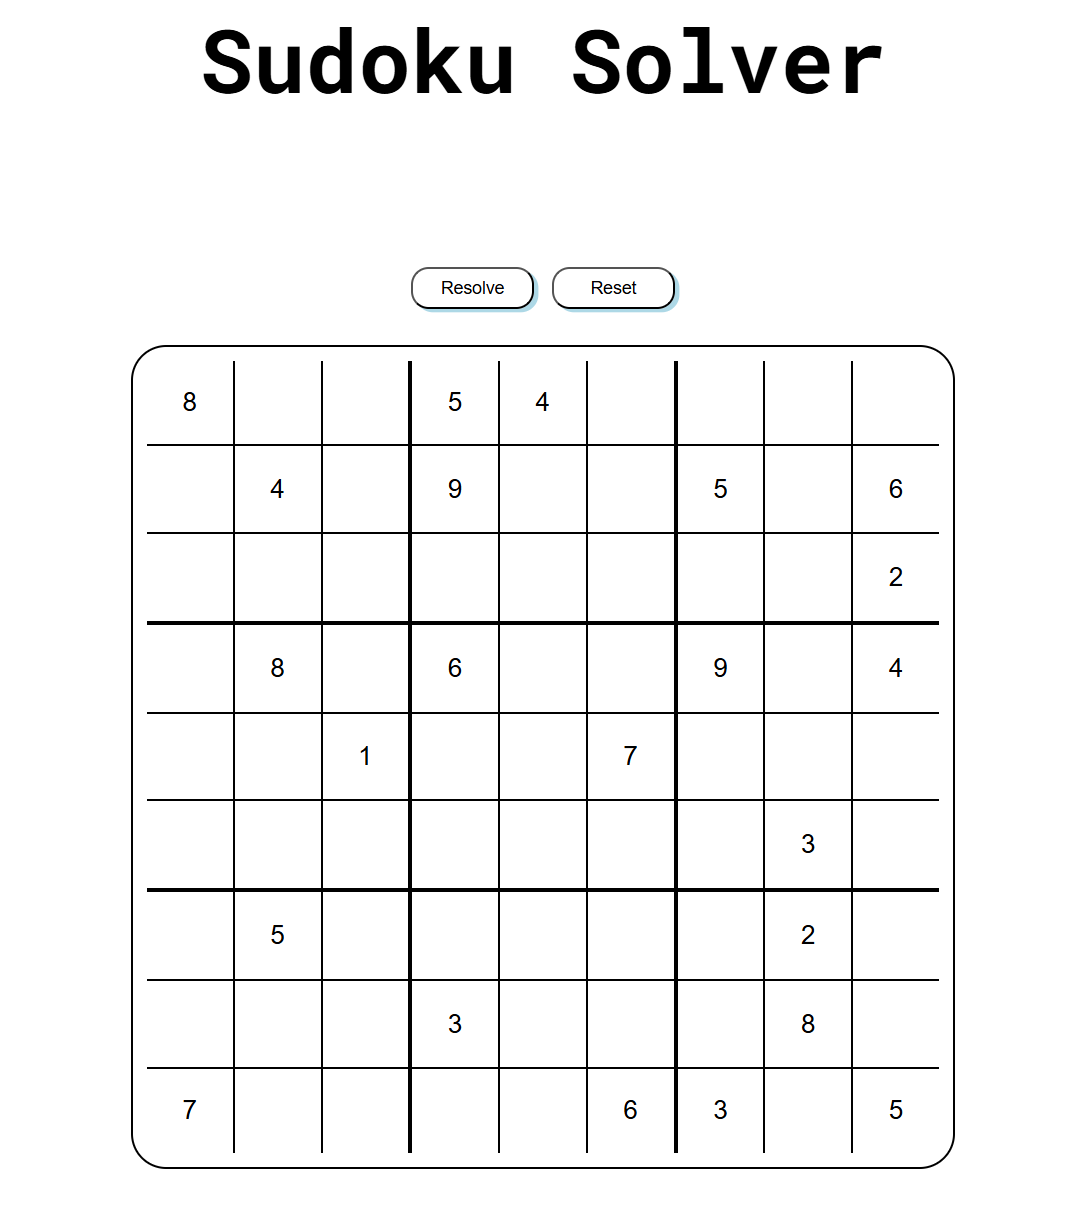
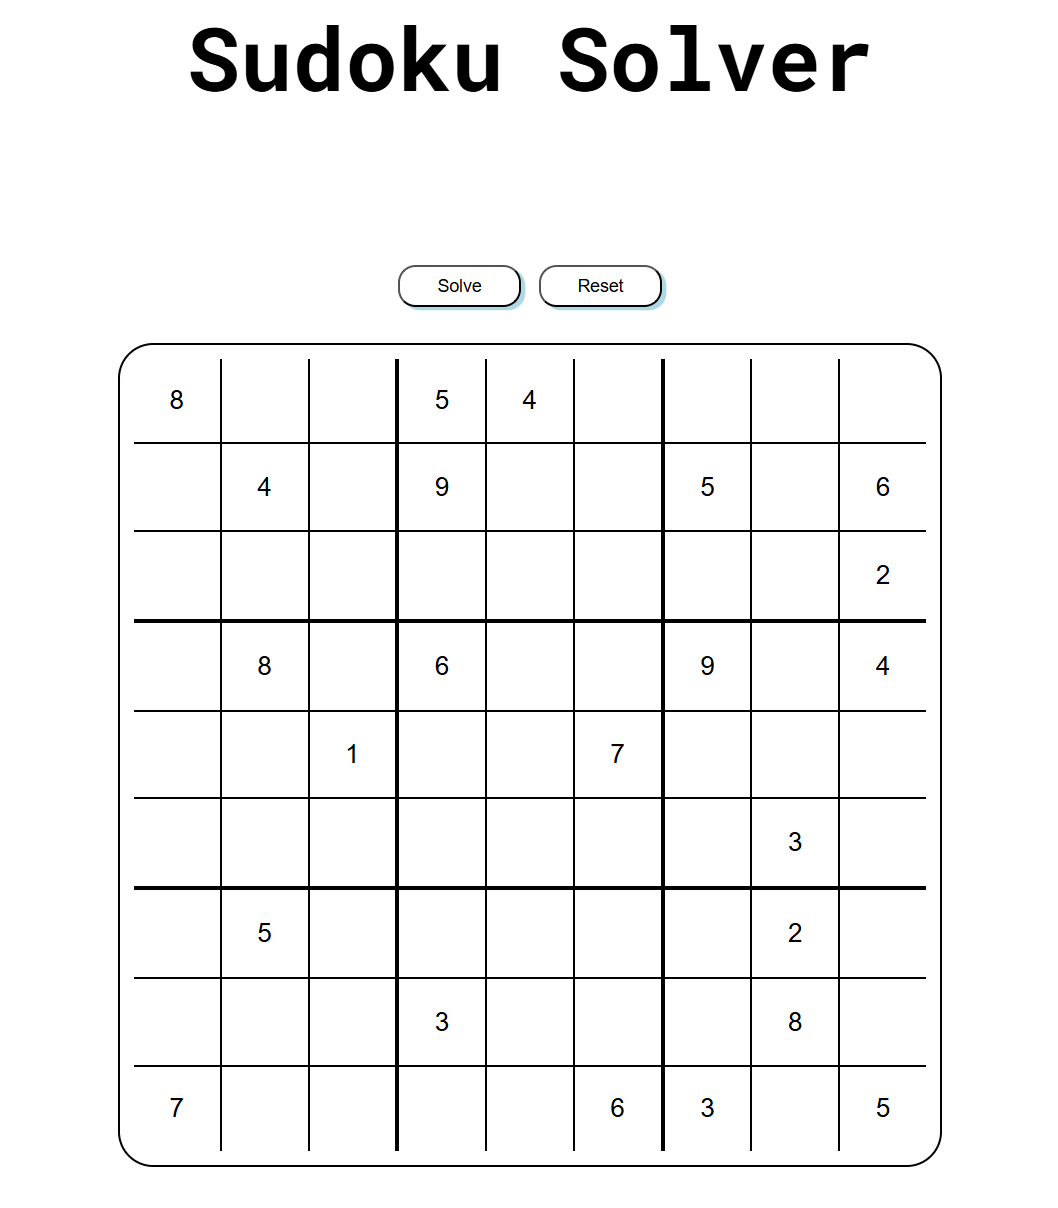
Update Readme

diff --git a/src/components/sudoku/Sudoku.js b/src/components/sudoku/Sudoku.js
@@ -62,8 +62,6 @@ const Sudoku = () => {
     }
 
     if (isComplete) {
-      console.log(`Sudoku risolto.`);
-      console.log(cellsData);
       setIsSolving(false);
     }
   };
@@ -97,11 +95,8 @@ const Sudoku = () => {
     <>
       <div>
         <button onClick={() => setIsSolving(!isSolving)}>
-          {isSolving ? "Pause" : "Resolve"}
+          {isSolving ? "Pause" : "Solve"}
         </button>
-        {/* <button onClick={() => setIsSolving(false)}>
-          {isSolving ? "Pause" : "Play"}
-        </button> */}
         <button onClick={handleOnClickReset}>Reset</button>
       </div>
       <div className="table-container">

diff --git a/src/App.js b/src/App.js
@@ -26,7 +26,6 @@ function App() {
               {char === " " ? "\u00A0" : char}
             </h1>
           ))}
-          {/* <h1 id="title-h1">Sudoku Resolver</h1> */}
         </div>
       </header>
       <div className="main">
@@ -35,11 +34,5 @@ function App() {
     </>
   );
 }
-
-// function BtnResolve(){
-//   return (
-//     <button onClick={}> </button>
-//   )
-// }
 
 export default App;
